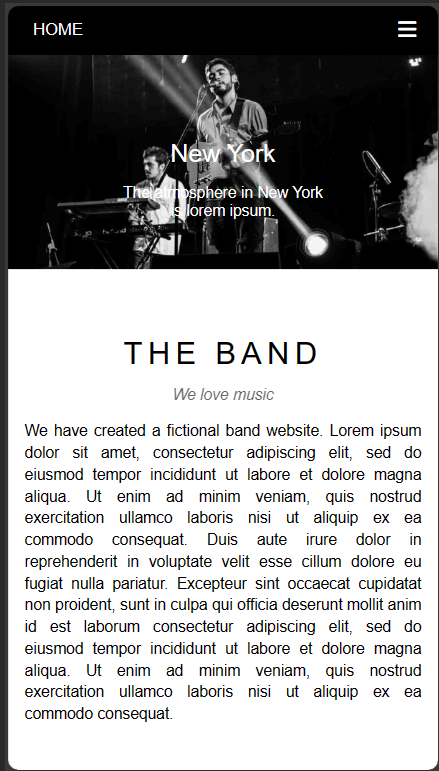
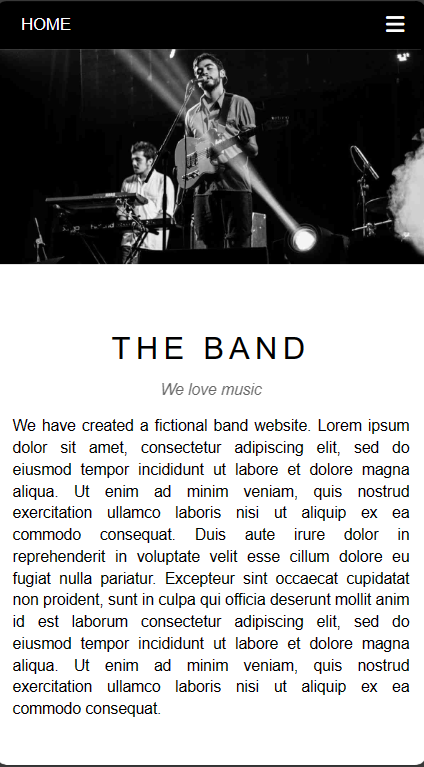
Fix bugs and change image-8

Changed region(s): [[0.0, 0.0, 1.0, 1.0]]

diff --git a/assets/css/responsive.css b/assets/css/responsive.css
@@ -16,10 +16,15 @@
 
   .contact-form .form-control {
     padding: 15px;
+    font-size: 16px;
   }
 
   .contact-info {
     line-height: 2;
+  }
+
+  .contact-submit-btn {
+    font-size: 16px;
   }
 
   #footer .socials-list {
@@ -88,6 +93,10 @@
 
   #nav > li:first-child {
     display: inline-block;
+  }
+  #slider .text-heading,
+  #slider .text-description {
+    display: none;
   }
 
   #content .member-item {

diff --git a/index.html b/index.html
@@ -237,7 +237,7 @@
                   </div>
                 </div>
                 <input
-                  class="btn mt-16 pull-right s-full-width"
+                  class="contact-submit-btn btn mt-16 pull-right s-full-width"
                   type="submit"
                   value="SEND"
                 />

diff --git a/assets/css/style.css b/assets/css/style.css
@@ -222,6 +222,7 @@ html {
 #slider .text-description {
   margin-top: 15px;
   font-size: 15px;
+  text-shadow: 0 0 3px var(--black);
 }
 
 #content {
